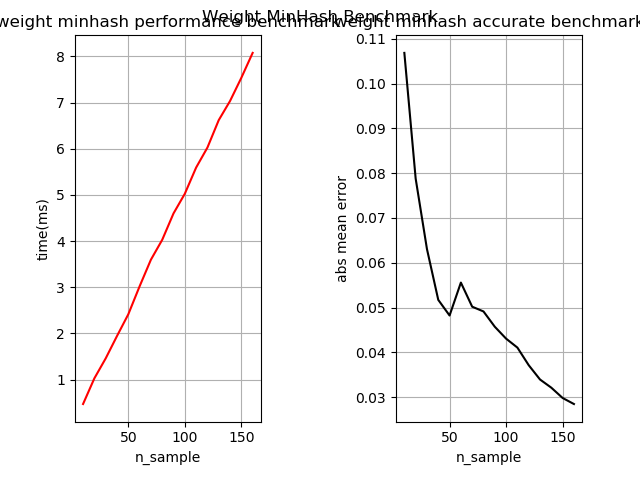
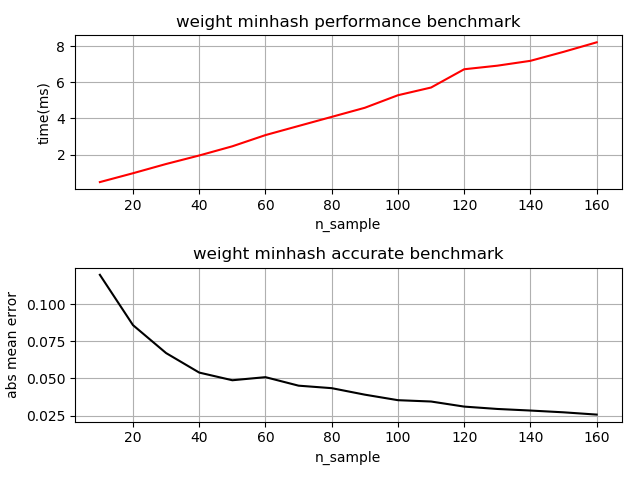
update

diff --git a/src/include/weight_minhash.h b/src/include/weight_minhash.h
@@ -18,7 +18,10 @@ namespace LSH_CPP {
     //     (有重复元素也无所谓),然后借助一个公式来计算权重.
     //     paper: [1] Improved Consistent Sampling, Weighted Minhash and L1 Sketching
     //            [2] A Review for Weighted MinHash Algorithms (2018)
-    //     算法思想:
+
+    // TODO 当前使用的 Weight MinHash 算法缺点在于无法处理流式数据,必须提前获取全集大小,
+    //  并且为了维护全集维度向量/分布采样矩阵耗费内存大(这个问题基本有解决方案,现在内存和运行时间均取决于weight>0的部分,所以已经不算是问题),
+    //  所以一个更加需要解决(扩展)的问题是: 提供一个可以处理 stream data 的 weight-minhash 算法.
 
     template<
             size_t dim,
@@ -27,6 +30,29 @@ namespace LSH_CPP {
             typename RandomGenerator = std::mt19937_64,
             typename random_number_type = float>
     struct RandomSample {
+        // TODO: 使用 (sample_size,dim) 规模的三个静态浮点矩阵储存, 空间开销过大,
+        //        考虑 (128,4^12) 大小的规模, 需要 128*4^12*3*4 / (1024*1024*1024) GB = 20多G,
+        //        而且考虑到 gamma(2,1)(范围基本在[0,7]) uniform(0,1)(范围[0,1]) 生成的浮点数都超级小,
+        //        如果遵循IEEE754标准存4个字节就太浪费空间了,需要考虑对浮点数做无损压缩.
+        //        A方案: 用 zpf Compressed C++ Arrays 储存 r_k,ln_c_k,beta_k;
+        //              用 Eigen sparse matrix(vector) 做计算.
+        //              weight_min_hash::update(std::vector<pair<index,weight>> & weights){
+        //                      Eigen::sparse_vector weight_vector <- weights;
+        //                      Eigen::sparse_vector r_k_part <- r_k.get_part_by(weights.index); // ln_ck 和 beta_k同理
+        //              }
+        //       这样就兼顾了储存(zpf压缩储存完全没有问题,因为r_k,ln_ck,beta_k都是由固定分布生成,具有规律,且数值很小,非常符合zpf压缩算法的要求)
+        //               和 运算效率(运算用Eigen稀疏矩阵/向量),
+        //       update时只取参数中对应weight>0的部分,其他weight=0的部分的参数不用取出,所以对内存开销没有多大影响.
+        //       B方案: r_k,ln_c_k,beta_k 依然用 Eigen::Sparse_matrix 储存,并提前声明维度大小(n_sample,dim),但是此时不存在任何数据,
+        //              在 update(std::vector<pair<index,weight>> & weights) 时, 检查 r_k 等矩阵在index位置是否为0,如果是,
+        //              就生成对应的参数,如果不是就跳过生成过程. 这样对不同的 weights 向量,使用的 r_k 等分布采样参数矩阵依然是相同的,
+        //              只不过是采用了动态生成方法,一点点构造出来而已,但相比原来的算法其实时间和内存开销更少,而且无需考虑浮点数压缩的问题,
+        //              除非你运行过程中提供的 weights 向量中的元素能完全覆盖整一个全集,但这种情况出现的概率极小,
+        //              因为现实数据基本是大量重复且只能构成全集的某个小的子集而已.
+        //              更重要的是, 当 r_k 等分布参数矩阵和 weighs_vector 都是 Eigen::Sparse 类型时,可以直接写矩阵向量乘法,
+        //              vectorization 优化更彻底.
+        //       从效率角度上选择B方案更好一些.因为A方案依旧需要一次性储存全部的参数(虽然压缩了但空间开销依旧很大)
+
         std::vector<std::vector<random_number_type>> r_k;
         std::vector<std::vector<random_number_type>> ln_c_k;
         std::vector<std::vector<random_number_type>> beta_k;
@@ -94,7 +120,15 @@ namespace LSH_CPP {
         //       当然可以写个测试代码,测试一下在全集元素是(A,T,C,G)长度为12的随机组合下,hash能不能完全不碰撞.
         //      2. 有可能出现大量全0的元素,即weight_set_vector大概率是稀疏向量,那么压缩储存就是必要的,可以用
         //      vector[(pos,weight)]记录下weight>0的部分,等于0的部分完全不用储存.
+        //      进一步考虑需要封装一个 sparse_vector. 或者看 Eigen 的 sparse_vector 部分能不能直接用上.
         //      3. naive的实现完全没有numpy快,需要考虑完全向量化的并行计算,Eigen + blas + simd.
+        //      Eigen可以用 min_value Array::minCoeff(row*,col*) 来实现 numpy.argmin 的效果;
+        //      但Eigen对持有nan的Array做计算是undefined的,所以这里不能将weight=0的部分变成nan,
+        //      而是考虑将weight=0的替换为float::max.
+        //      另外Eigen好像没有 Array[value==x(condition)]=new_val 的方法,可能需要自己提供 reduce 方法(参考Eigen文档的reduction部分).
+        //      现在的想法是直接用 Eigen::sparse_vector,然后提供一个[index,value]集合作为参数构造出稀疏向量,
+        //      后面的计算全是向量化的,并且也不用考虑0权重的情况了,因为后面对稀疏向量的遍历计算都是在非0值上计算.
+        //
         /**
          * @tparam WeightType 可以是任意的非负数值类型
          * @param weight_set_vector 权重集向量

diff --git a/src/benchmark/weight_minhash_benchmark.h b/src/benchmark/weight_minhash_benchmark.h
@@ -87,23 +87,21 @@ namespace LSH_CPP::Benchmark {
     }
 
     void weight_minhash_benchmark() {
+        namespace plt = matplotlibcpp;
         auto performance_time = detail::performance();
         auto accurate_time = detail::accurate();
         std::vector<double> x;
         for (size_t n_sample : detail::n_samples) {
             x.push_back(n_sample);
         }
-
-        plt::suptitle("Weight MinHash Benchmark");
-
-        plt::subplot(1, 2, 1);
+        plt::subplot(2, 1, 1);
         plt::plot(x, performance_time, "r-");
         plt::title("weight minhash performance benchmark");
         plt::xlabel("n_sample");
         plt::ylabel("time(ms)");
         plt::grid(true);
 
-        plt::subplot(1, 2, 2);
+        plt::subplot(2, 1, 2);
         plt::plot(x, accurate_time, "k-");
         plt::title("weight minhash accurate benchmark");
         plt::xlabel("n_sample");

diff --git a/src/include/lsh_cpp.h b/src/include/lsh_cpp.h
@@ -11,12 +11,6 @@
 #include <string>
 
 // C++ std include
-/**
- * 对于 std::vector 等顺序容器的赋值过程,如果已经提前知道vector需要多少内存,并且不需要做任何初始化赋值
- * (先初始赋值,后面重新分配值会浪费时间,除非你的初始赋值是有作用的.)
- * 最优的策略是使用 reserve(N) 直接分配内存但是不初始化,然后紧接着用 push_back(v) 分配你需要的值.
- * 需要注意的是,如果用了reserve(N),分配值的时候必须用push_back,不能用operator[],否则size不会变化.
- */
 #include <vector>
 #include <map>
 #include <unordered_map>
@@ -57,8 +51,6 @@
 
 // Self include
 #include "config.h"
-
-namespace plt = matplotlibcpp;
 
 namespace LSH_CPP {
 

diff --git a/note.md b/note.md
@@ -1,0 +1,13 @@
+## C++ programming 
+### std::vector initialize
+- 如果提前知道vector需要多少内存且无需初始化,并只用做一次值更新,
+最优的策略是使用 reserve(N) 直接分配内存且不初始化,
+后面连续用 push_back(v) 分配你需要的值,
+push_back不会做任何扩容操作,节省了时间.
+需要注意的是,如果用了reserve(N),分配值的时候必须用push_back,
+不能用operator[]. 
+- 如果vector需要初始化,初始化的值将用在后面更新值的比较中; 
+或者vector更新值不是顺序的; 
+或者vector可能多次调用函数分配赋值而不是仅赋值一次, 
+这三种情况就不能采用 reserve + push_back的方案, 
+而应该用 resize + operator[] 的方法.

diff --git a/README.md b/README.md
@@ -62,5 +62,8 @@ $ ln -s libstdc++.so.6.0.26 libstdc++.so.6
     - [ ] data save/read/remove/split/merge/... feature
     
 - [ ] Other
-    - [ ] 代码中向量化计算的部分全部用上 Eigen-vector + Blas + simd
+    - [ ] 代码中向量化计算的部分全部用上 Eigen-vector + intel_mkl + simd,
+    移除xsimd,xsimd的部分用Eigen替代
+    - [ ] 加入对 xxhash , parallel_hash_map/set 的可选控制,
+    当用户编译不指定这些三方库时改用std:: hash和std:: unordered_map.
     - [ ] Python interface export using pybind11
